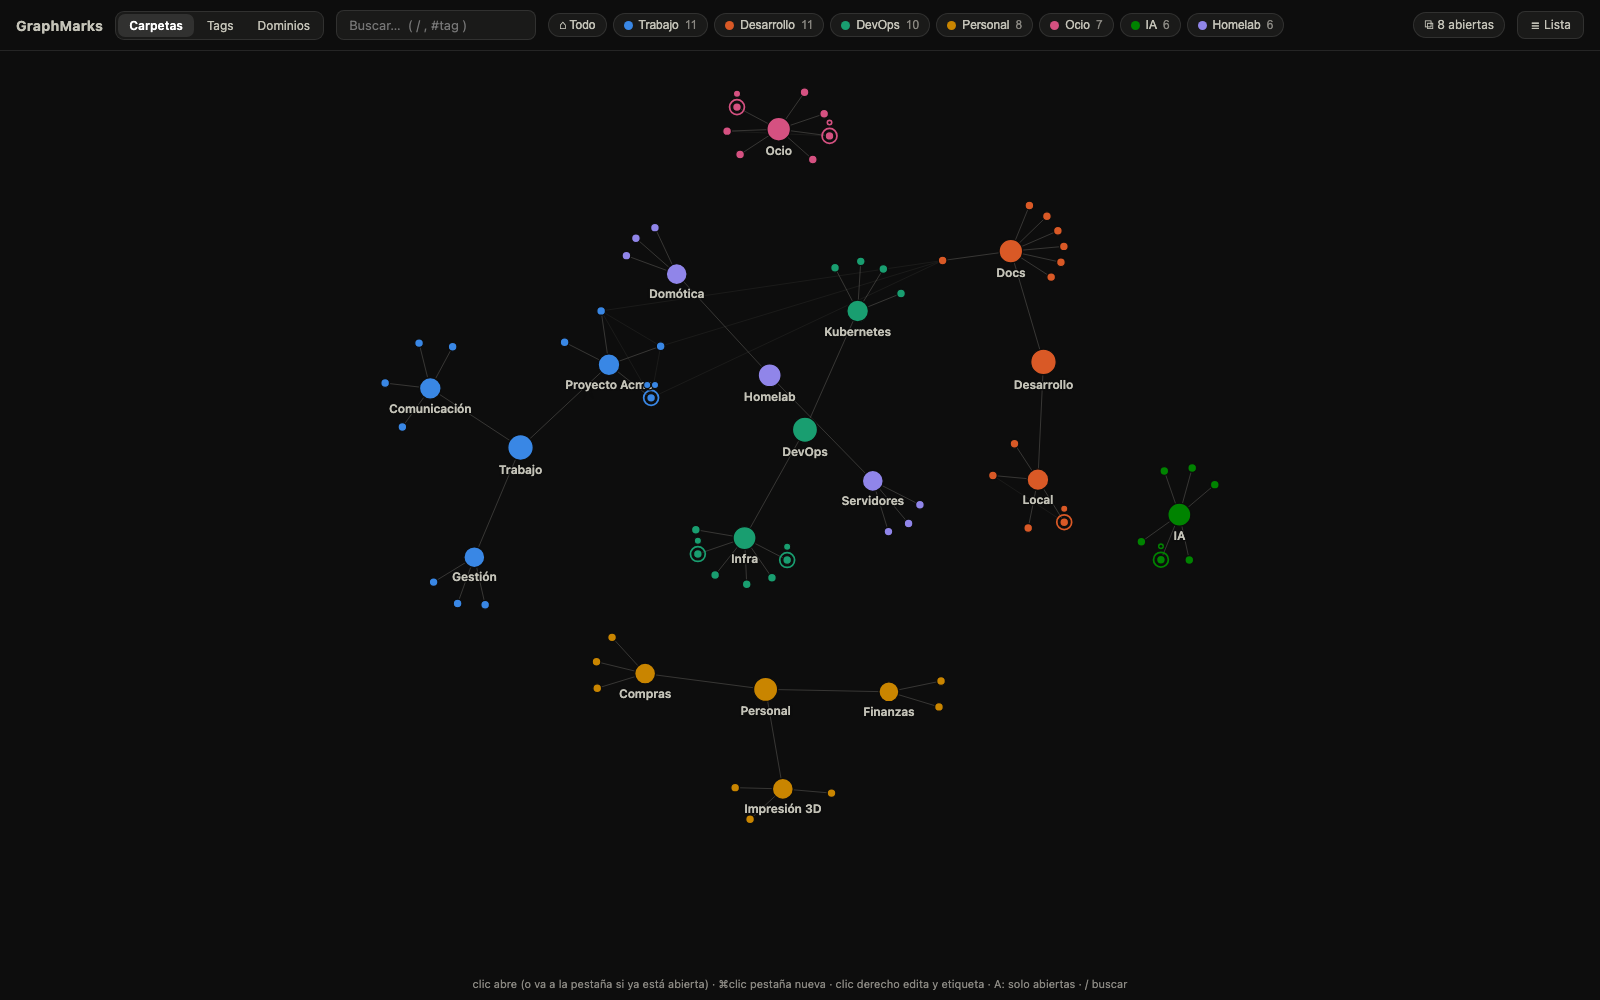
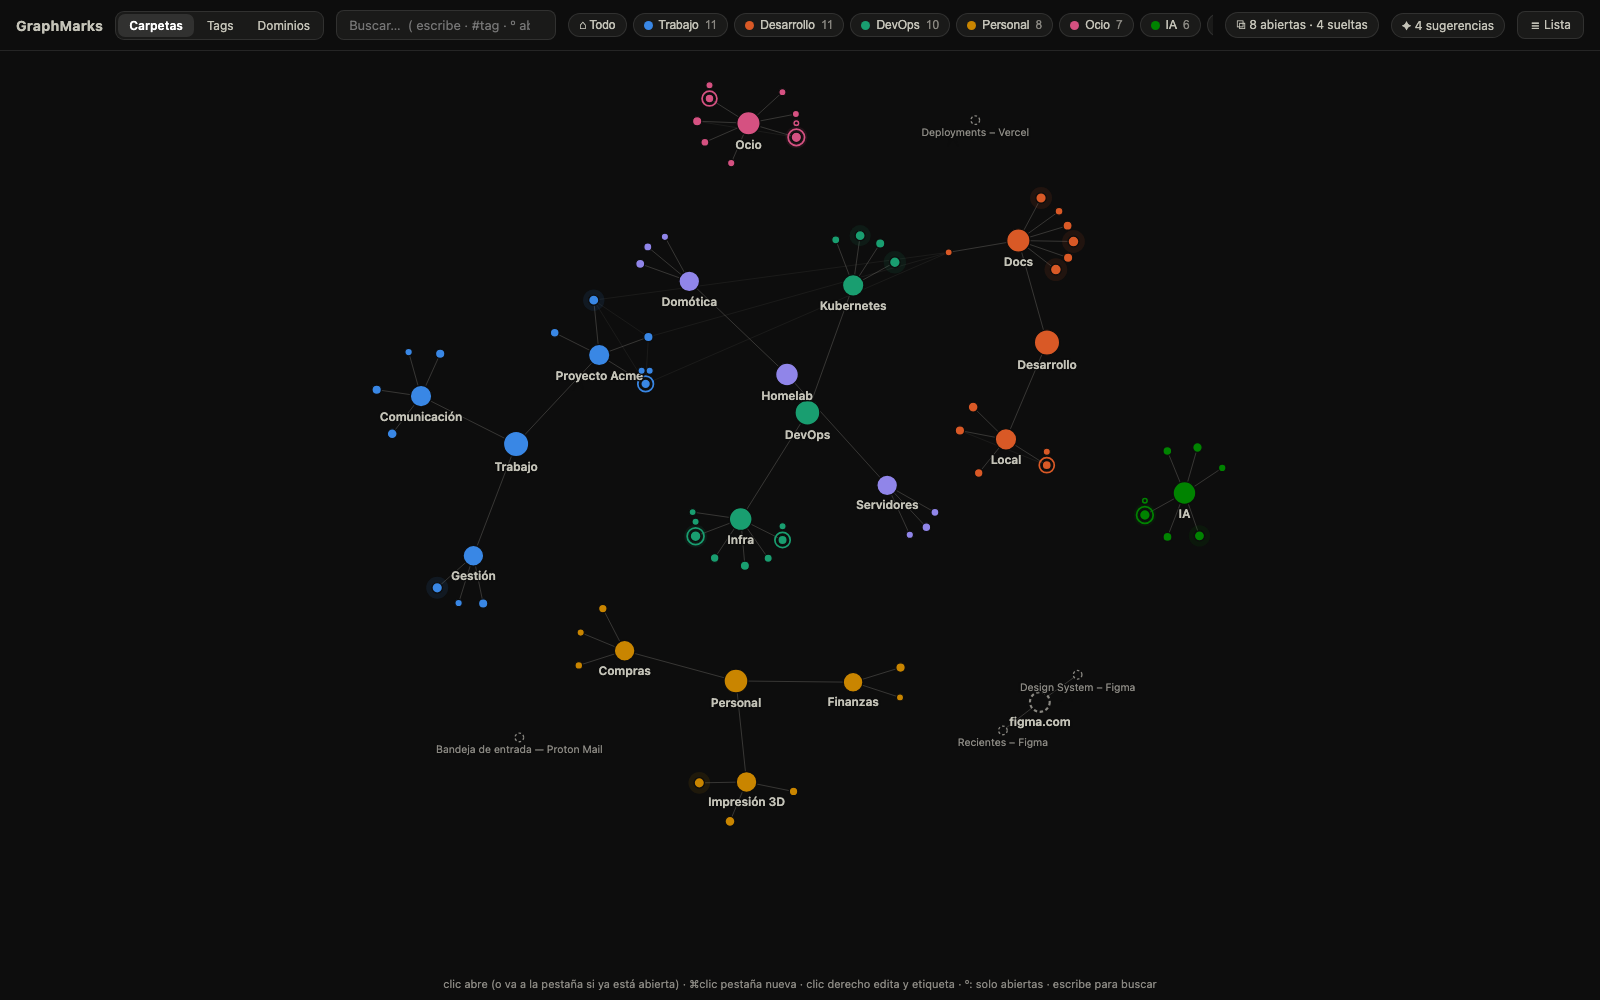
feat: buscador-paleta, historial vivo, layout fijado, tags en sync y empaquetado
- Buscador-paleta: escribir en cualquier parte lo activa, desplegable de
  resultados navegable con flechas, vista amplia sin zoom durante la búsqueda
  y focalización tras 3 s de permanencia; º conmuta el filtro «solo abiertas»;
  omnibox «gm» vía service worker.
- Historial como capa viva (permiso history): tamaño/halo de los marcadores
  según uso reciente y sugerencias adoptables de sitios muy visitados sin
  marcador, con descarte persistente y caché de 30 min.
- Layout manual: arrastrar fija el nodo por vista y se recuerda; doble clic
  o menú para soltar.
- Etiquetas en chrome.storage.sync troceadas en buckets (<8 KB/item) con
  migración y fallback a local; exportar/importar JSON desde el menú.
- Iconos 16/48/128, versión 0.2.0, CI de smoke test headless y workflow de
  release con zip para la Web Store.

diff --git a/background.js b/background.js
@@ -1,0 +1,40 @@
+/* GraphMarks — service worker: omnibox «gm» para saltar a marcadores/pestañas */
+"use strict";
+
+const esc = (s) => String(s)
+  .replace(/&/g, "&amp;").replace(/</g, "&lt;").replace(/>/g, "&gt;")
+  .replace(/"/g, "&quot;").replace(/'/g, "&apos;");
+
+chrome.omnibox.setDefaultSuggestion({
+  description: "GraphMarks: buscar en tus marcadores",
+});
+
+chrome.omnibox.onInputChanged.addListener(async (text, suggest) => {
+  if (!text.trim()) return suggest([]);
+  const res = await chrome.bookmarks.search(text);
+  suggest(res.filter((b) => b.url).slice(0, 6).map((b) => ({
+    content: b.url,
+    description: `${esc(b.title || b.url)} <dim>—</dim> <url>${esc(b.url)}</url>`,
+  })));
+});
+
+chrome.omnibox.onInputEntered.addListener(async (text, disposition) => {
+  let url = text;
+  if (!/^https?:/.test(url)) {
+    const res = await chrome.bookmarks.search(text);
+    url = res.find((b) => b.url)?.url;
+    if (!url) return;
+  }
+  // si ya hay una pestaña abierta con esa URL (o una subruta), ir a ella
+  const tabs = await chrome.tabs.query({});
+  const base = url.replace(/\/$/, "");
+  const open = tabs.find((t) =>
+    t.url === url || t.url === base || (t.url || "").startsWith(base + "/"));
+  if (open) {
+    await chrome.tabs.update(open.id, { active: true });
+    await chrome.windows.update(open.windowId, { focused: true });
+    return;
+  }
+  if (disposition === "currentTab") chrome.tabs.update({ url });
+  else chrome.tabs.create({ url, active: disposition === "newForegroundTab" });
+});

diff --git a/docs/icon.html b/docs/icon.html
@@ -1,0 +1,20 @@
+<!DOCTYPE html>
+<html>
+<head><meta charset="UTF-8"><style>html,body{margin:0;padding:0;background:transparent}</style></head>
+<body>
+<svg width="128" height="128" viewBox="0 0 128 128" xmlns="http://www.w3.org/2000/svg">
+  <rect x="4" y="4" width="120" height="120" rx="28" fill="#1a1a19"/>
+  <g stroke="#898781" stroke-width="4" opacity="0.85">
+    <line x1="64" y1="64" x2="34" y2="38"/>
+    <line x1="64" y1="64" x2="96" y2="44"/>
+    <line x1="64" y1="64" x2="46" y2="96"/>
+    <line x1="96" y1="44" x2="34" y2="38"/>
+  </g>
+  <circle cx="64" cy="64" r="17" fill="#3987e5"/>
+  <circle cx="34" cy="38" r="11" fill="#d95926"/>
+  <circle cx="96" cy="44" r="12" fill="#199e70"/>
+  <circle cx="46" cy="96" r="10" fill="#d55181"/>
+  <circle cx="64" cy="64" r="17" fill="none" stroke="#0d0d0d" stroke-width="3"/>
+</svg>
+</body>
+</html>

diff --git a/README.md b/README.md
@@ -33,9 +33,22 @@ telemetría: todos los datos viven en tu navegador.
 | Clic en una carpeta | Encuadra su clúster |
 | Arrastrar un nodo | Lo mueve (la física lo reacomoda) |
 | Rueda / arrastrar el fondo | Zoom / paneo |
-| `/` | Enfoca el buscador; Enter abre el primer resultado |
+| Escribir (en cualquier momento) | Activa el buscador-paleta directamente |
+| `º` | Filtro «solo abiertas» on/off |
+| `gm` + espacio en el omnibox | Buscar marcadores desde la barra de direcciones |
 | Chips de la cabecera | Resaltan y encuadran cada carpeta |
 | Botón «Lista» | Vista de lista accesible (los mismos datos, sin canvas) |
+
+## Buscador-paleta
+
+Empieza a escribir en cualquier momento y el buscador se activa solo, con un
+desplegable de resultados (marcadores, pestañas abiertas, sueltas, tags,
+carpetas) que se filtra en vivo. Con `↑`/`↓` navegas la lista y ves el nodo
+correspondiente resaltado en el grafo — al entrar en modo búsqueda el grafo
+se encuadra completo, sin zoom, para que veas dónde cae cada resultado; si te
+quedas **3 segundos** sobre un resultado, el grafo lo focaliza. `Enter` abre
+(o salta a la pestaña si ya está abierta), `Esc` restaura la vista anterior.
+`#tag` filtra por etiqueta.
 
 ## Edición (escribe en tus marcadores reales)
 
@@ -71,12 +84,34 @@ sobre los marcadores:
 - Al hacer **hover** aparece una bolita **«+»** para abrir una pestaña nueva
   del marcador aunque ya esté abierto. ⌘/Ctrl+clic también fuerza pestaña nueva.
 - Todo se actualiza en vivo al abrir/cerrar/navegar pestañas.
-- **Filtro «solo abiertas»**: la tecla `A` (o clic en el badge ⧉ de la
+- **Filtro «solo abiertas»**: la tecla `º` (o clic en el badge ⧉ de la
   cabecera) poda el grafo a los marcadores con pestaña abierta y sus
   carpetas/hubs — tu sesión de navegación proyectada sobre la topología.
   El estado del filtro se recuerda entre pestañas y sesiones, funciona en
   las tres vistas, y el grafo se replantea solo al abrir o cerrar pestañas
   mientras está activo.
+- **Pestañas sueltas (fantasmas)**: las pestañas que no casan con ningún
+  marcador aparecen como nodos grises punteados, agrupadas por dominio.
+  Arrastra una sobre una carpeta (o un tag) y se convierte en marcador;
+  clic derecho permite guardarla, ir a ella o cerrarla. Se ocultan desde el
+  menú del fondo.
+
+## Historial como capa viva
+
+Con el permiso `history`, el grafo respira con tu uso real:
+
+- **Calor**: el tamaño de cada marcador (y un halo sutil en los muy usados)
+  refleja cuánto lo has visitado últimamente — ves enfriarse lo que ya no usas.
+- **Sugerencias** (chip «✦» en la cabecera): sitios con mucho uso reciente que
+  aún no tienen marcador, pintados como nodos ámbar punteados. Se adoptan
+  igual que los fantasmas (arrastrar sobre una carpeta) o se descartan para
+  siempre desde su menú. El análisis se cachea 30 minutos.
+
+## Layout manual
+
+Arrastrar un nodo lo **fija** donde lo sueltes (queda marcado con un punto) y
+la posición se recuerda por vista entre sesiones. Doble clic en una carpeta la
+suelta; el menú contextual permite soltar cualquier nodo o todos a la vez.
 
 ## Vistas y etiquetas
 
@@ -92,11 +127,15 @@ El conmutador de la cabecera cambia la topología del grafo:
   sin edición: es una vista derivada.
 
 Las etiquetas son una capa propia de GraphMarks (Chrome no las soporta):
-se guardan en `chrome.storage.local` con la URL como clave — sobreviven a
-renombrados y movimientos de carpeta — y en `localStorage` en la vista previa.
-La primera vez se siembran etiquetas transversales derivadas del análisis del
-historial (`seed-tags.js`): argocd, payload, tailscale, ia, etc. En el
-buscador, `#tag` filtra por etiqueta.
+se guardan con la URL como clave — sobreviven a renombrados y movimientos de
+carpeta — en `chrome.storage.sync`, troceadas en buckets para respetar el
+límite de 8 KB por item, así que **viajan entre tus máquinas** con la sesión
+de Chrome (con fallback automático a local, y `localStorage` en la vista
+previa). La primera vez se siembran etiquetas de ejemplo (`seed-tags.js`).
+En el buscador, `#tag` filtra por etiqueta.
+
+Desde el menú contextual del fondo puedes **exportar/importar un JSON** con
+etiquetas, layout fijado y sugerencias descartadas — tu seguro de vida.
 
 ## Vista previa sin instalar
 
@@ -112,9 +151,11 @@ ejecución: D3 v7 va incluido en `vendor/`.
 
 ## Privacidad
 
-Todo es local: los marcadores se leen y escriben con `chrome.bookmarks`, las
-etiquetas y preferencias viven en `chrome.storage.local`, los favicons salen
-de la caché local de Chrome (`_favicon`) y no se hace ninguna petición de red.
+Todo es local: los marcadores se leen y escriben con `chrome.bookmarks`, el
+historial se analiza en tu máquina con `chrome.history` (nunca sale de ella),
+las etiquetas y preferencias viven en `chrome.storage` (sync/local), los
+favicons salen de la caché local de Chrome (`_favicon`) y la extensión no
+hace ninguna petición de red.
 
 ## Licencia
 
